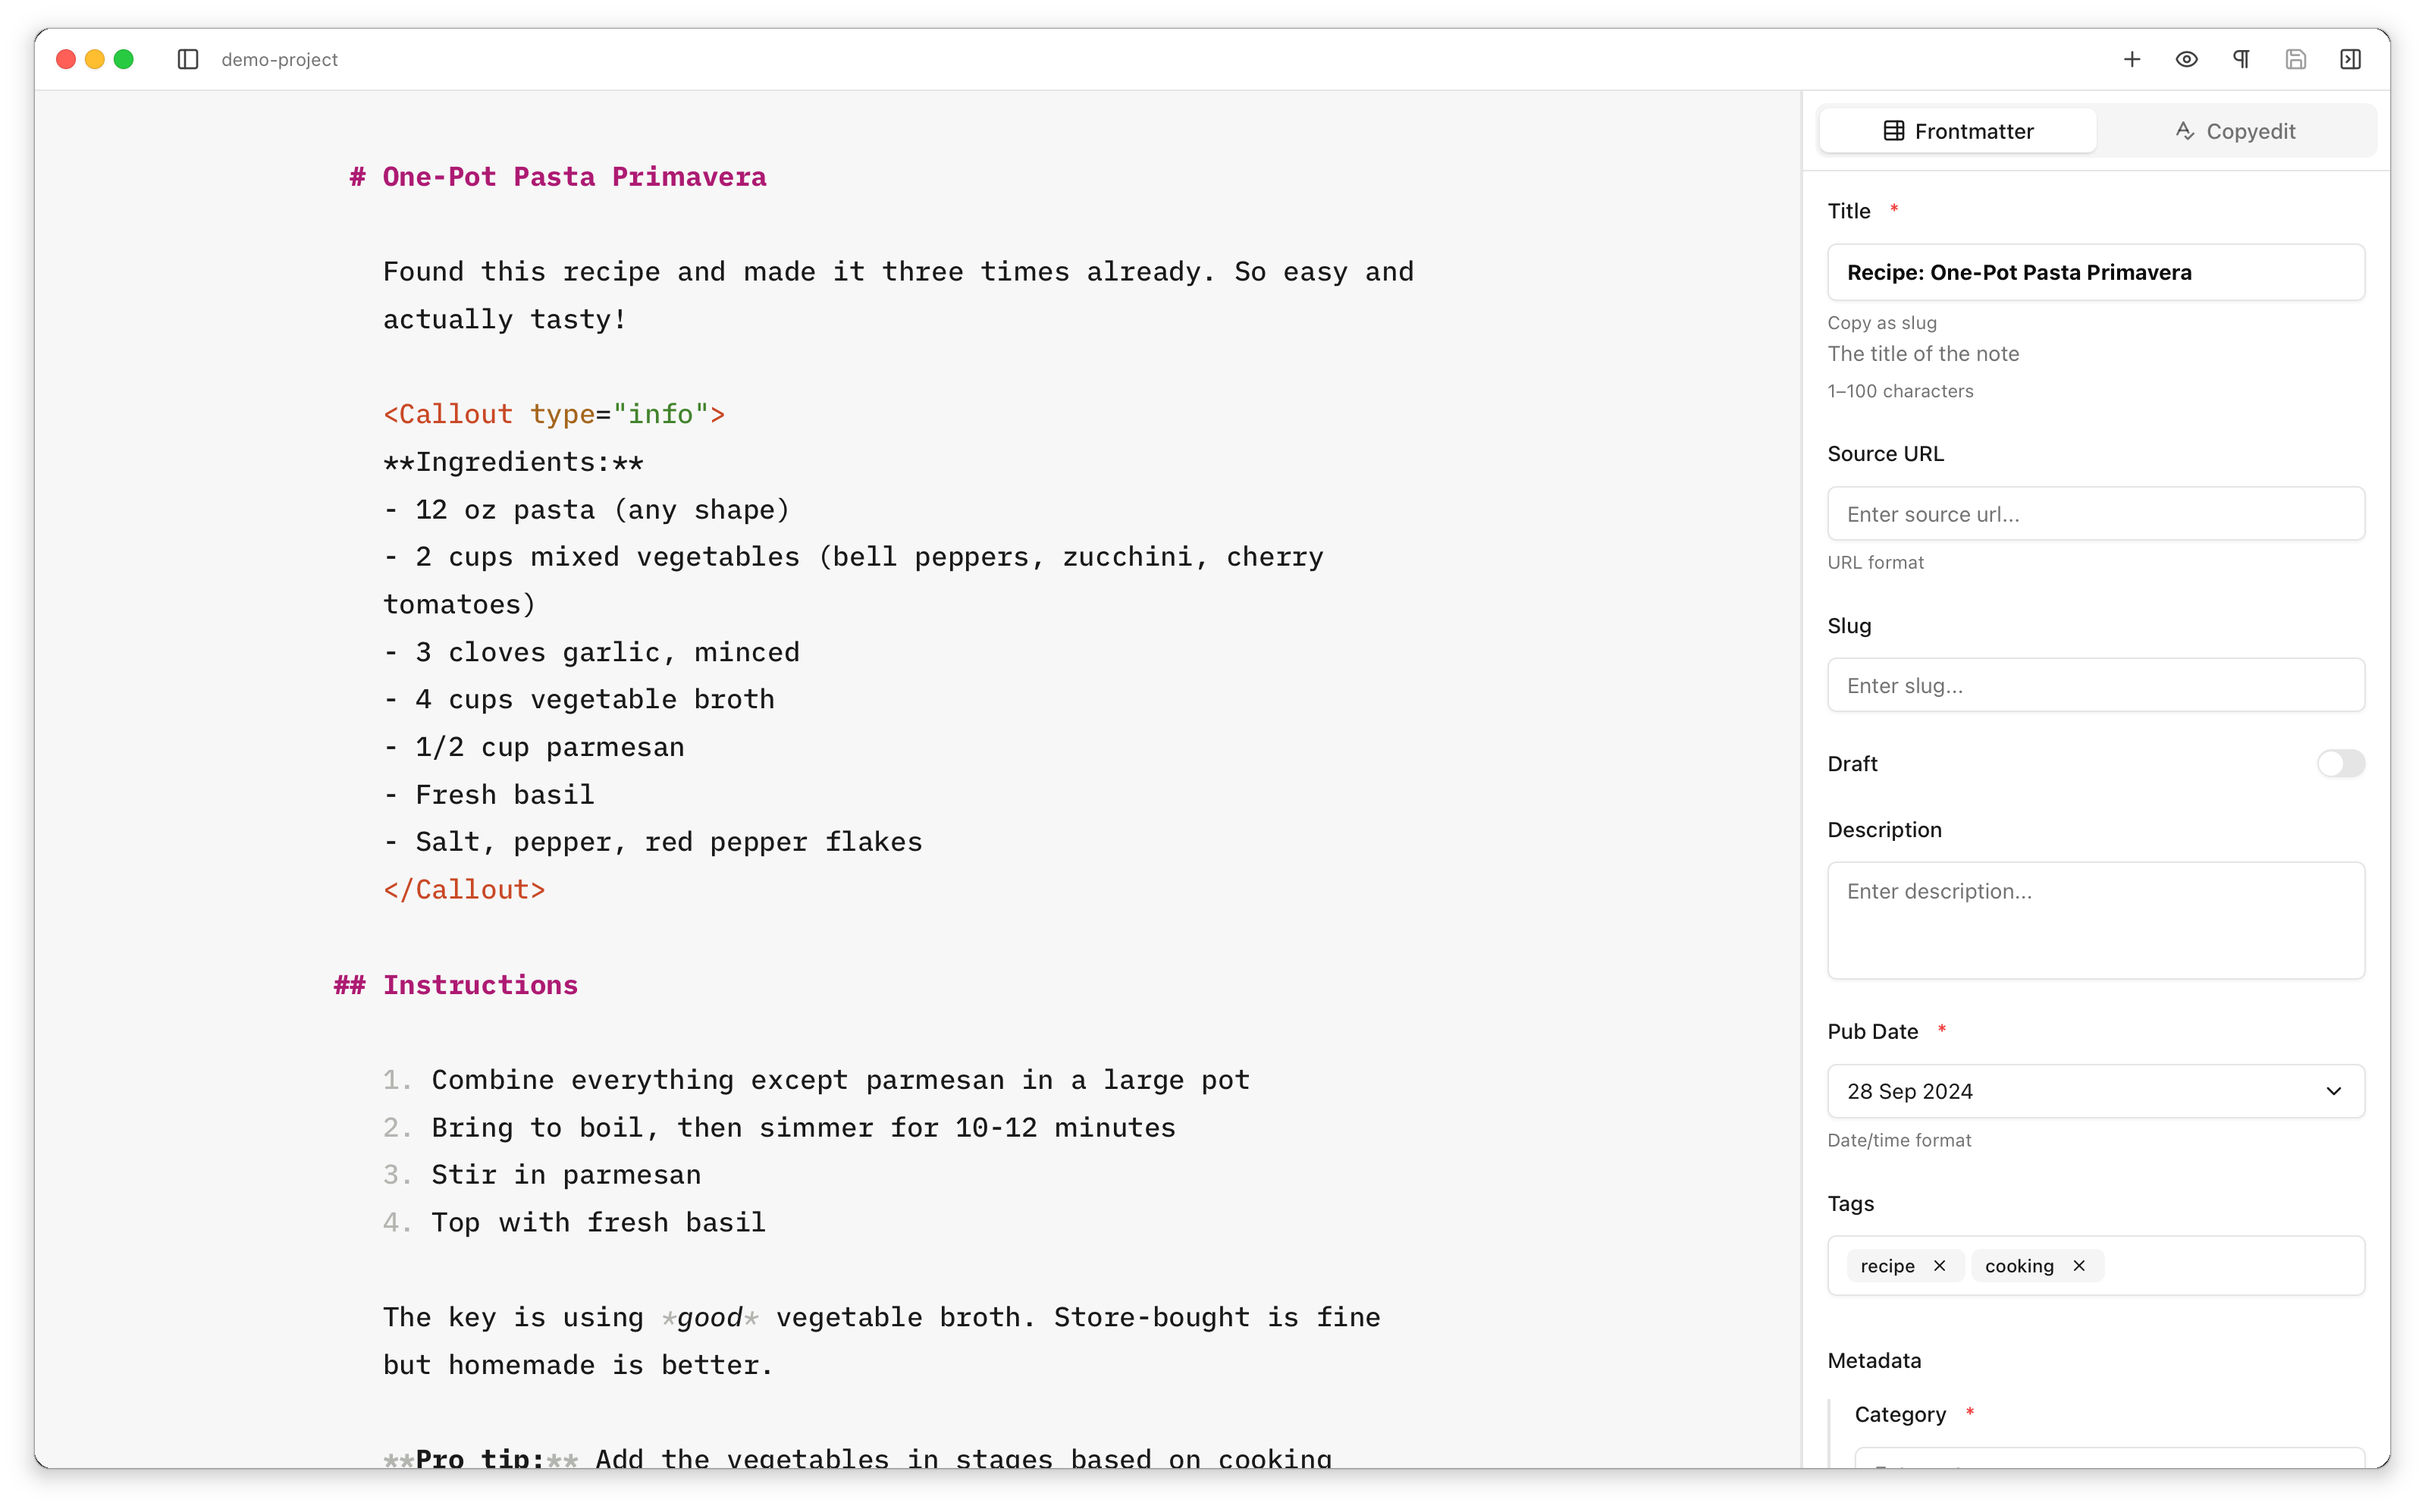
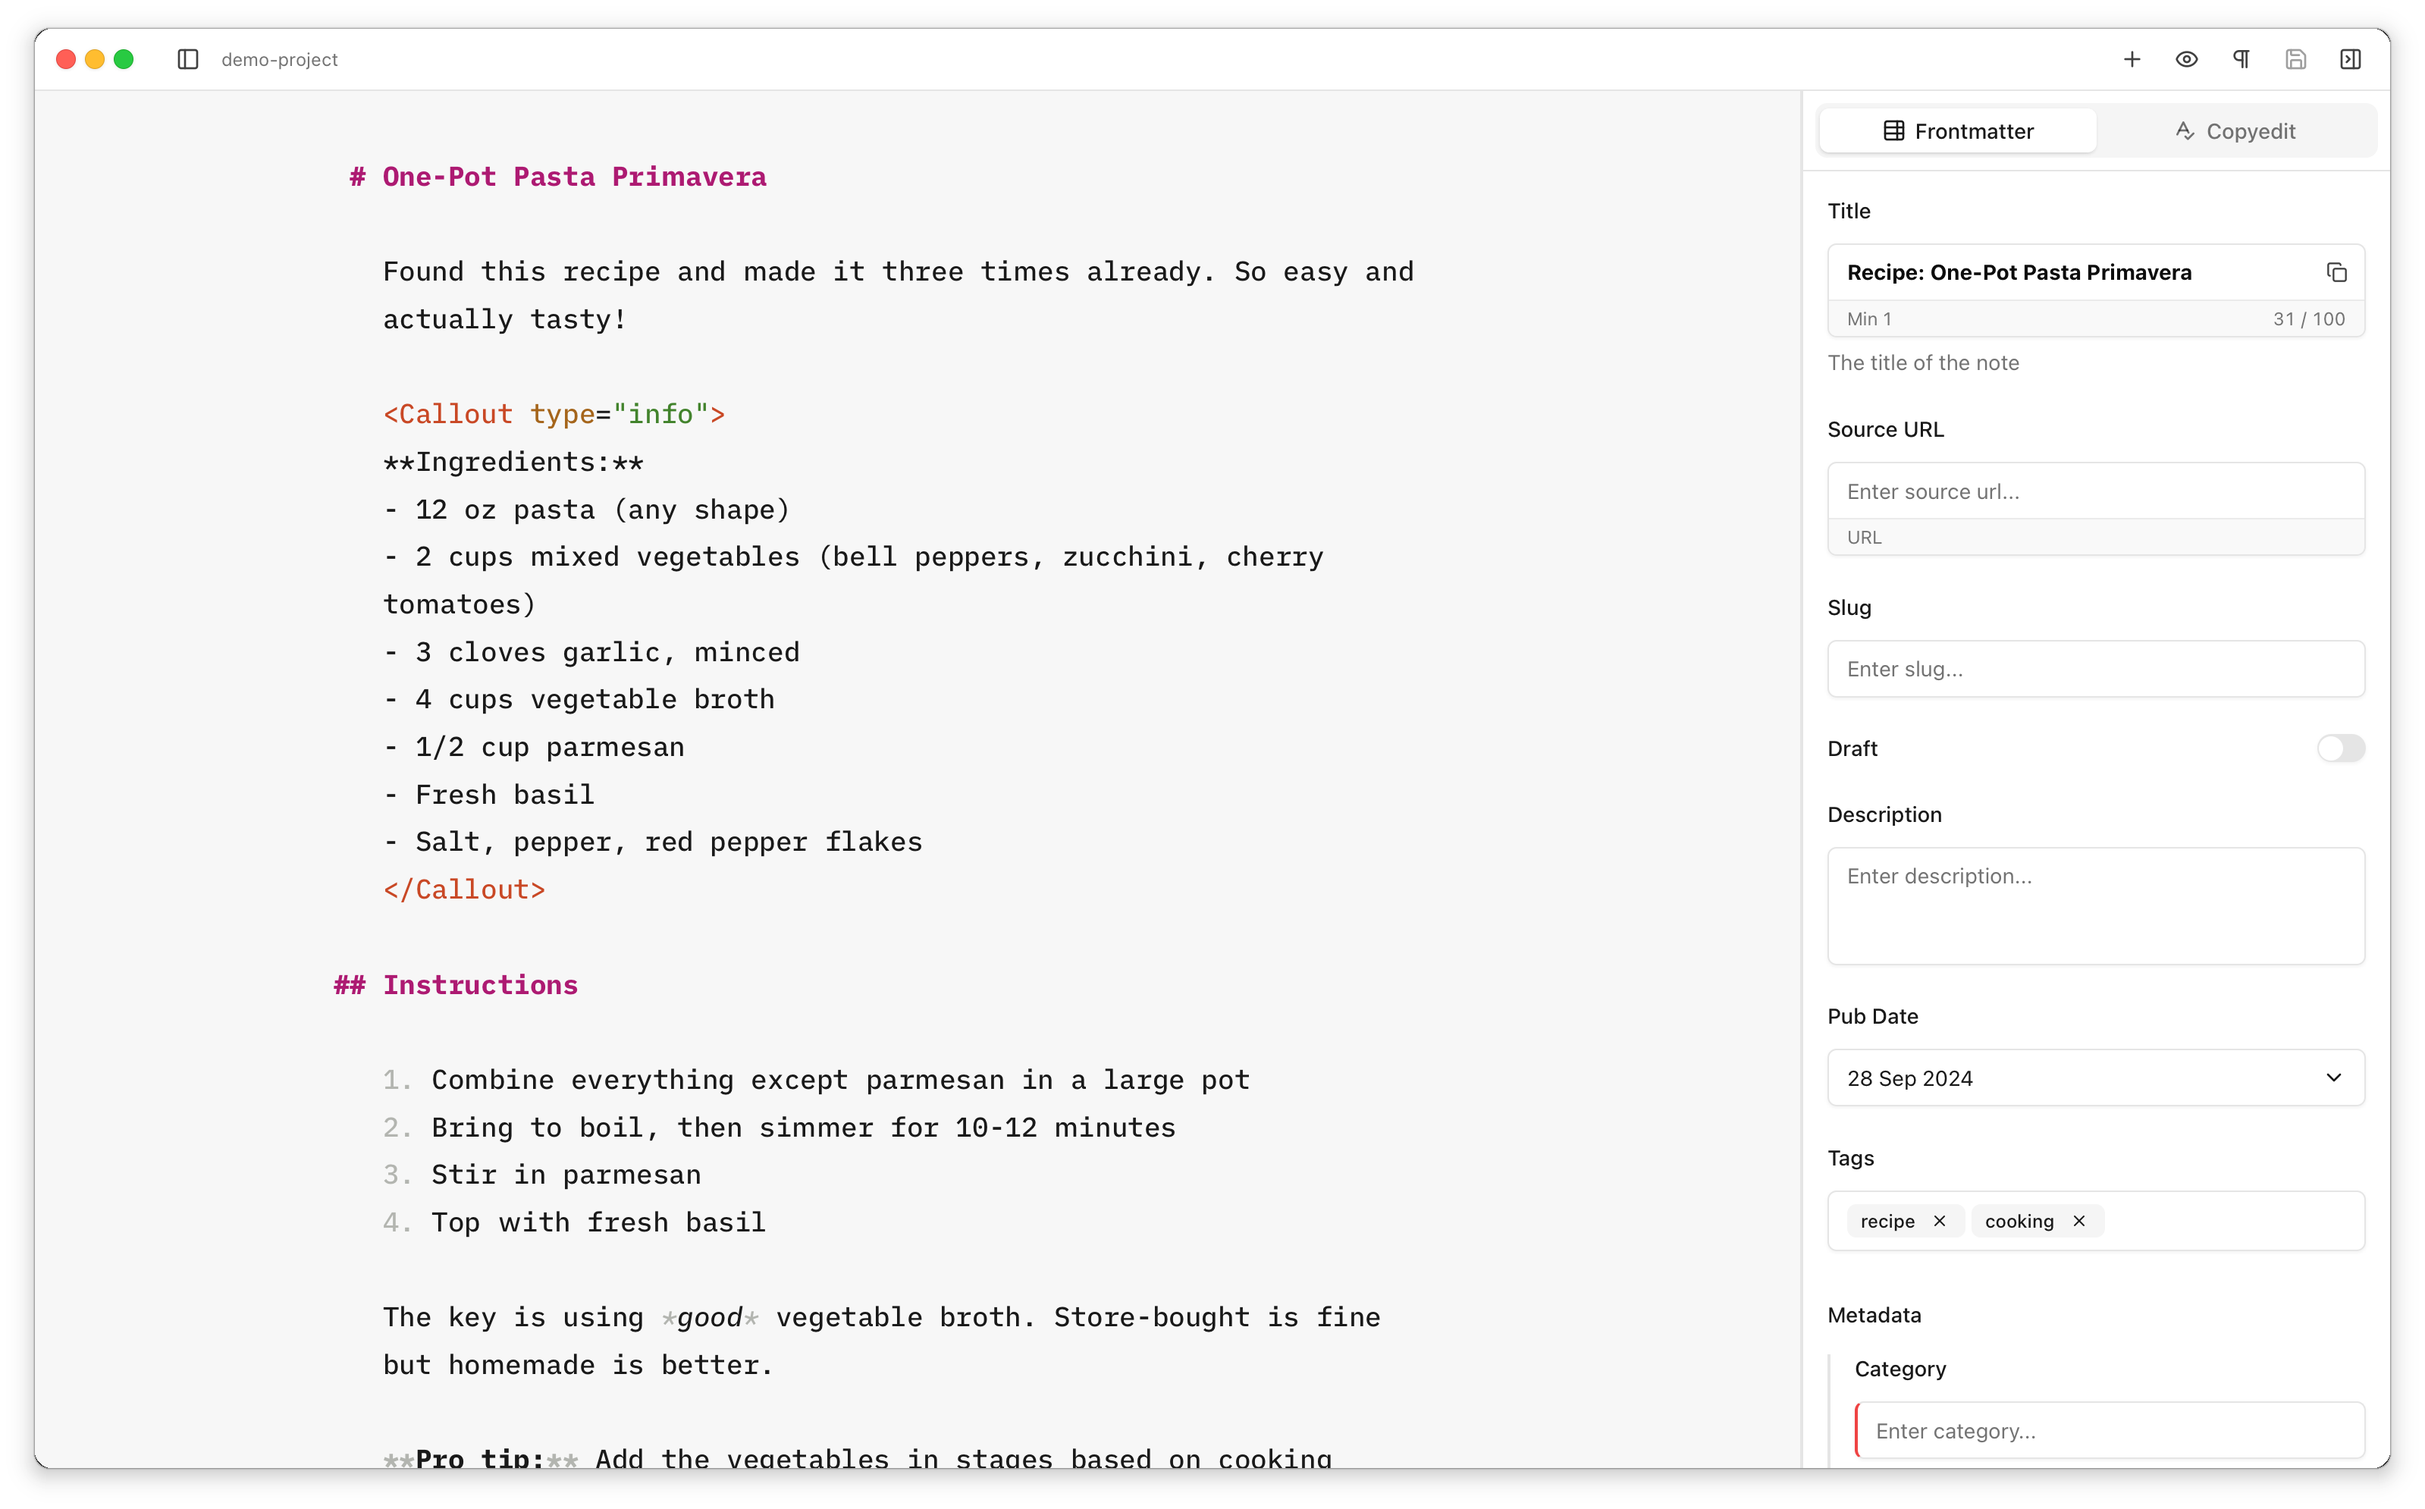
Update docs for the frontmatter panel and file handling
Describe constraint footers, required edges, nested groups and how comments are kept, and retake the frontmatter panel screenshot.

Most likely with oversight by an actual human, Danny.

Claude-Session: https://claude.ai/code/session_01Nvc6fzfhSmPQsXy9cP8KWn

diff --git a/docs/developer/editor.md b/docs/developer/editor.md
@@ -64,7 +64,7 @@ Never losing work is a product principle, and each of these rules guards against
 - **Frontmatter is found and read as Astro does.** `find_block` (`src-tauri/src/frontmatter/mod.rs`) takes the block between `---` lines at the top of the file, after an optional byte order mark and blank lines, with spaces allowed after the fences. An opening `---` that's never closed is a thematic break, so the file has no frontmatter. TOML between `+++` fences isn't read. The YAML is read by `src-tauri/src/yaml.rs`, which matches Astro 7, so duplicate keys make frontmatter unreadable, as they fail Astro's build. `test/frontmatter/README.md` lists the few differences from Astro and how to compare with it.
 - **Frontmatter that can't be read is kept as text.** When the YAML doesn't parse, `parse_markdown_content` still returns the body, the imports and the raw frontmatter, with the parser's error (`frontmatter_error`, its line numbers counted from the top of the file). The body can be edited; the frontmatter panel shows the error, the store ignores frontmatter edits, and saving writes the raw text back unchanged.
 - **Edits during a save survive.** After writing, `saveFile` marks the file clean only if the content and frontmatter in the store still match what it wrote. Anything typed while the save was in flight stays dirty and is saved next time.
-- **Edits keep the user's YAML.** If the frontmatter wasn't touched (`isFrontmatterDirty`), the block on disk (`rawFrontmatter`) is written back unchanged. An edited frontmatter's values are spliced into the text it was loaded from (`write_block` in `src-tauri/src/frontmatter/write.rs`): keys whose values didn't change keep their text and comments, including inside a nested object written as a block, changed keys are written in the style of their old text and the rest of the block (quotes, inline lists, indentation, a trailing comment), and new keys go at their schema position. With the project's "Reorder frontmatter" setting on and the collection's whole schema known, keys are put in schema order, then the rest alphabetically, each with its text and comments. A date-like string is written unquoted, so Astro reads it as a date, only in a date field or where it was unquoted before; everywhere else it's quoted.
+- **Edits keep the user's YAML.** If the frontmatter wasn't touched (`isFrontmatterDirty`), the block on disk (`rawFrontmatter`) is written back unchanged. An edited frontmatter's values are spliced into the text it was loaded from (`write_block` in `src-tauri/src/frontmatter/write.rs`): keys whose values didn't change keep their text and comments, including inside a nested object written as a block (a list of objects or an inline object is rewritten whole), changed keys are written in the style of their old text and the rest of the block (quotes, inline lists, indentation, a trailing comment), and new keys go at their schema position. With the project's "Reorder frontmatter" setting on and the collection's whole schema known, keys are put in schema order, then the rest alphabetically, each with its text and comments. A date-like string is written unquoted, so Astro reads it as a date, only in a date field or where it was unquoted before; everywhere else it's quoted.
 - **What's written must read back as what was saved.** `write_block` reads its result back and compares it with the values. If the splice doesn't match (an alias to another key's anchor can't be split off, for one), the whole block is written from the values; if that doesn't match either, the save fails and nothing is written, so the file stays dirty and recovery data is written. Values come back from JavaScript, so numbers are compared by value (`1.0` is `1`, and an integer too big for JavaScript to hold exactly is unchanged by the rounding).
 - **Edits are spliced into the baseline, not the last save.** The first load after opening a file is kept as its `frontmatterBaseline` (values and text, `lib/files/frontmatter-baseline.ts`), and every save of edited frontmatter splices into the baseline's text. So the file only ever differs from the baseline by the edits, however many auto-saves came between: a key cleared and retyped goes back where it was with its comment, and the quotes a half-typed value needed (`"Hello "`) don't stick. A save whose values are back to the baseline's writes the baseline's text as it is, so a field changed and changed back, or a switch turned on and off again, leaves the file as it was. The save returns the block it wrote, which becomes `rawFrontmatter`; a load whose frontmatter is anything else was changed outside the app, and becomes the new baseline.
 - **Unsaved edits win over disk.** When the file content query refetches, `useEditorFileContent` only copies it into the store if the file isn't dirty, and the read isn't from before the last save, which would bring back older text.

diff --git a/docs/developer/color-system.md b/docs/developer/color-system.md
@@ -29,7 +29,7 @@ All colour tokens live in one `:root` block near the top of `src/App.css`:
   - `--sidebar-*` is only for the preferences dialog's sidebar.
 
   Our own chrome tokens are `--heading`, `--icon`, `--active`, `--overlay`, `--image-preview*` and `--framework-*`.
-- **Status:** `--draft`, `--filter` (each with a `-bg` tint), `--required`, and `--warning` for what AE couldn't fully read (errors use `--destructive`). A strong colour and its background tint are separate tokens, because each token name means one colour for every utility.
+- **Status:** `--draft`, `--filter` (each with a `-bg` tint), `--required`, and `--warning` for what AE couldn't fully read and for frontmatter values outside their constraints (errors use `--destructive`). A strong colour and its background tint are separate tokens, because each token name means one colour for every utility.
 - **Window controls:** the Windows caption buttons and the macOS traffic lights.
 - **Editor:** `--editor-color-*`, the iA Writer palette for the writing surface only (see `editor-styles.md`). Keep all of it, used or not. The chrome and the editor differ on purpose; for example, editor text in dark mode is softer than UI text. The app chrome uses the editor background in one place: the title bar when both panels are hidden, so the window reads as one surface.
 
